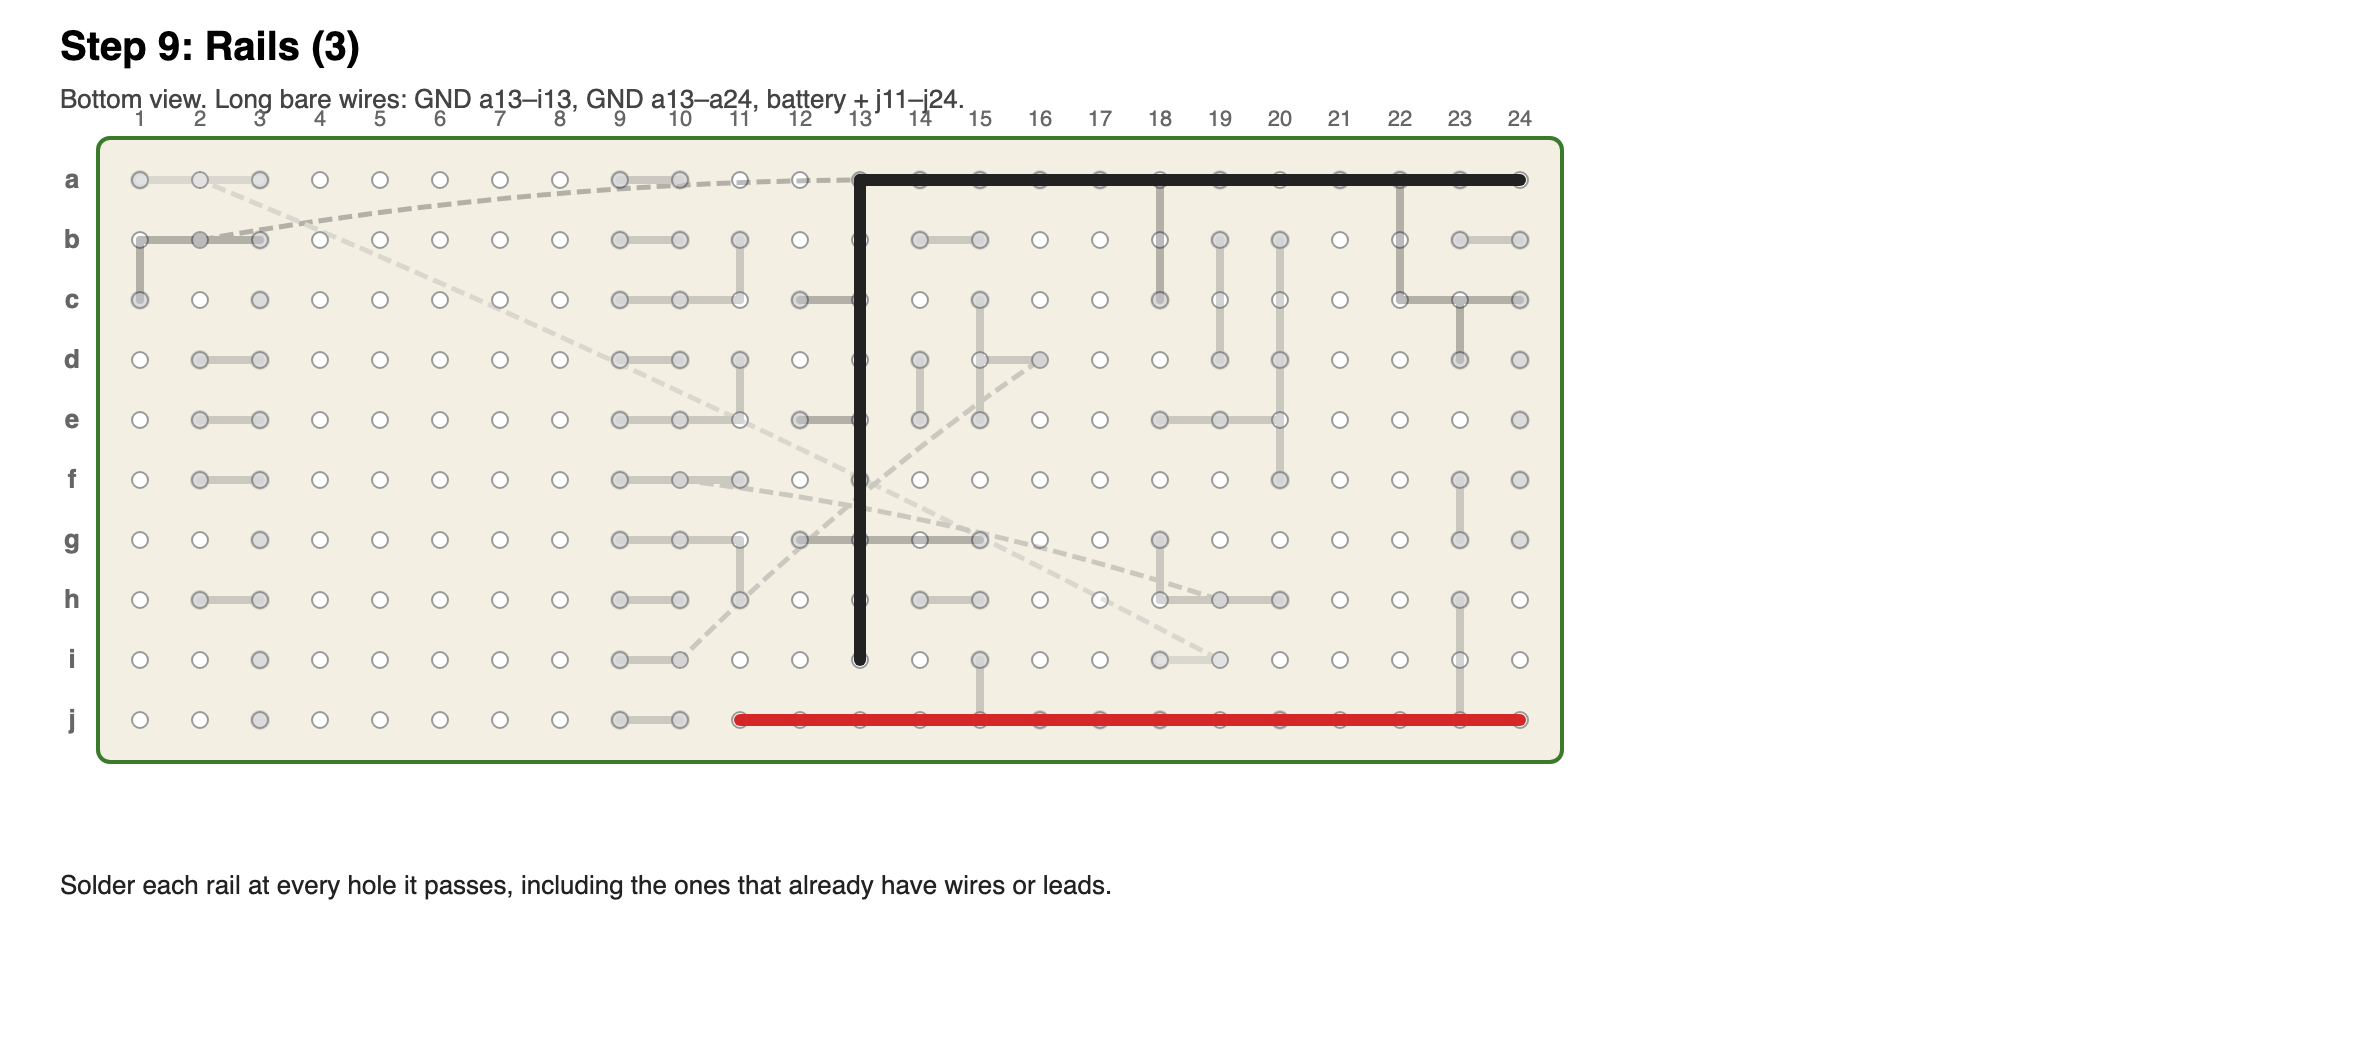
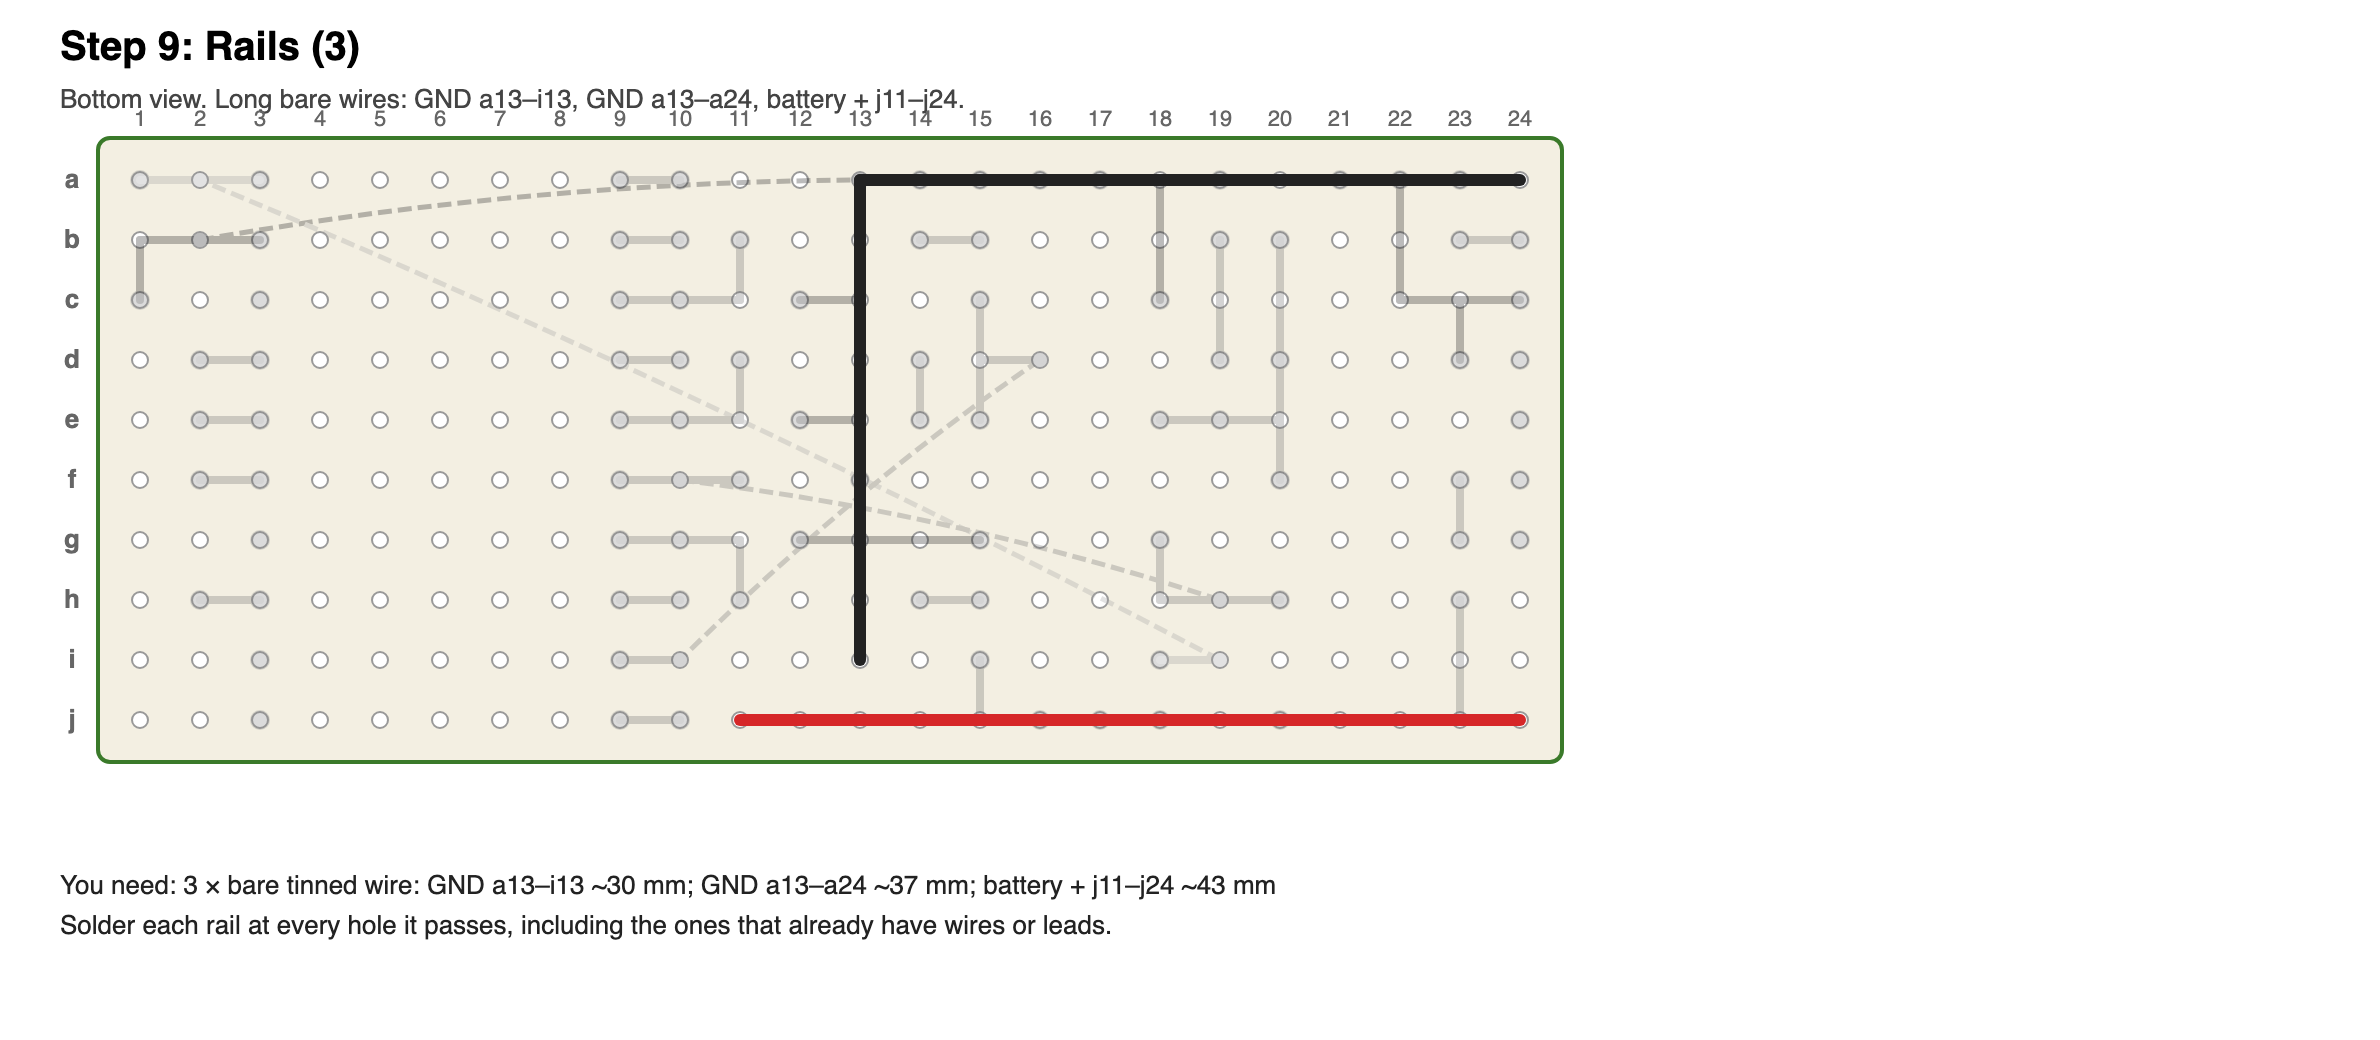
Dev board guide: per-step parts counts, orientation on step 1
Every step lists what it needs with counts (in the text and on its picture). Step 1's
picture marks which end is row 1 / row 24 and outlines where the sockets go.

Changed region(s): [[0.0311, 0.8308, 0.5286, 0.9231]]

diff --git a/tools/devboard_guide.py b/tools/devboard_guide.py
@@ -514,6 +514,38 @@ meet at a corner, solder them together there. Then do the checks in step 10.""" 
      what(wires_of('rail')))
 
 
+def need():
+    """What each step uses, with counts (drawn from the layout)."""
+    cnt = lambda pairs: {v: sum(1 for _, x in pairs if x == v) for _, v in pairs}
+    r, c = cnt(RES), cnt(CAPS)
+    rail_mm = []
+    for f, t, k in RAILS:
+        (i0, m0), (i1, m1) = H(f), H(t)
+        rail_mm.append('%s %s–%s ~%d mm' % ('GND' if 'GND' in k else 'battery +', f, t, (abs(i0 - i1) + abs(m0 - m1)) * 2.54 + 10))
+    socks = socket_rows()
+    n_esp = sum(1 for n, _ in socks if n == 'ESP32-C6')
+    usb_pins = [len(hs) for n, hs in socks if n == 'USB-C breakout']
+    out = {
+        'res': ['%s × %s resistor' % (n, v.replace('1k', '1 kΩ').replace('1M', '1 MΩ')) for v, n in r.items()],
+        'diodes': ['3 × 1N5819 diode', '1 × 6.2 V zener'],
+        'caps': ['%d × %s ceramic capacitor' % (n, {'100n': '100 nF (104)', '10µ': '10 µF (106)'}[v]) for v, n in c.items()],
+        'sockets': ['%d × 10-way female header socket (pin stand)' % n_esp] +
+                   ['1 × %d-way female header socket (cut from a strip)' % u for u in usb_pins] +
+                   ['%d × male header pins (battery)' % len(PARTS['Battery pins'].pins)],
+        'charger': ['1 × MCP73871 charger board (+ its bulk capacitor)', '1 × 10 kΩ NTC thermistor',
+                    '3 × pairs of white 22 AWG two-conductor wire, 6–8 cm each'],
+        'leads': ['3 × RJ12 breakout board (6 leads each)'] + (['1 × solar lead (2 wires)'] if 'Solar leads' in PARTS else []),
+        'wires': ['%d × 30 AWG insulated wire (cut to length)' % len(wires_of('wire'))],
+        'bridges': ['%d × short bare wire: the ~%d leg offcuts saved from steps 1-3, the rest cut from bare tinned wire' % (
+            len(wires_of('bridge')), 2 * (len(RES) + len(DIODES) + len(CAPS)))],
+        'rails': ['%d × bare tinned wire: %s' % (len(RAILS), '; '.join(rail_mm))],
+    }
+    return out
+
+
+NEED = need()
+
+
 def render_step(k):
     st = STEPS[k]
     bottom = st['view'] == 'bottom'
@@ -528,6 +560,17 @@ def render_step(k):
         for s2 in STEPS[:k]:
             for f in s2['draw']:
                 f(prev)
+    if k == 0 and not bottom:                          # first picture: where things will go, and which end is which
+        for name, hs in socket_rows():
+            (x0, y0), (x1, y1) = pos(hs[0]), pos(hs[-1])
+            prev.append('<rect x="%.0f" y="%.0f" width="%.0f" height="%.0f" rx="3" fill="none" stroke="#555" stroke-dasharray="5,4"/>' % (
+                min(x0, x1) - 12, min(y0, y1) - 12, abs(x1 - x0) + 24, abs(y1 - y0) + 24))
+        o.append('<text x="%d" y="%.0f" font-size="13" fill="#c00" font-weight="bold">&#8592; row 1: toward the phone jacks</text>' % (
+            MX - 40, MY + S * (M.NM - 1) + S * 1.5))
+        o.append('<text x="%.0f" y="%.0f" font-size="13" fill="#c00" font-weight="bold" text-anchor="end">row 24: toward the USB-C end &#8594;</text>' % (
+            MX + S * (M.NI - 1), MY + S * (M.NM - 1) + S * 1.5))
+        o.append('<text x="%.0f" y="%.0f" font-size="11" fill="#555">dashed = where the sockets go later (step 4)</text>' % (
+            MX + S * 7, MY + S * (M.NM - 1) + S * 1.5))
     muted(o, prev)
     if bottom:
         draw_under(o, st['draw'][1])
@@ -535,7 +578,7 @@ def render_step(k):
         for f in st['draw']:
             f(o)
     name = '%sstep-%02d.svg' % (PRE, k + 1)
-    finish(o, name, st['notes'])
+    finish(o, name, ['You need: ' + ', '.join(NEED.get(st['key'], []))] + list(st['notes']))
     return name
 
 
@@ -712,7 +755,8 @@ def write_md():
            'caps': ('Capacitor', 'Holes', 'Note'), 'batt': ('Part', 'Holes', 'Note'), 'charger': ('Charger pad', 'Board hole', 'Net'),
            'wires': ('From', 'To', 'What'), 'bridges': ('From', 'To', 'What'), 'rails': ('From', 'To', 'What')}
     for k, st in enumerate(STEPS):
-        o += ['## Step %d: %s' % (k + 1, st['title']), '', '![step %d](renders/build-step-%02d.png)' % (k + 1, k + 1), '', st['body'], '']
+        o += ['## Step %d: %s' % (k + 1, st['title']), '', '**You need:** ' + ', '.join(NEED.get(st['key'], [])) + '.', '',
+              '![step %d](renders/build-step-%02d.png)' % (k + 1, k + 1), '', st['body'], '']
         if st['key'] == 'leads':
             leads = {lab: HN(i, m) for i, m, lab in PARTS['Port leads'].pins}
             o += ['| RJ12 pin | Port 1 | Port 2 | Port 3 |', '|---|---|---|---|']
@@ -725,6 +769,8 @@ def write_md():
         else:
             o += ['| %s |' % ' | '.join(hdr[st['key']]), '|---|---|---|'] + ['| %s | %s | %s |' % r for r in st['table']] + ['']
     o += ['## Step %d: checks, then plug in the ESP and the USB-C board' % (len(STEPS) + 1), '',
+          '**You need:** multimeter, 1 × ESP32-C6 SuperMini (its male pins soldered on)%s, 1 × 18650 cell with JST-XH plug.' % (
+              ', 1 × USB-C breakout (its 6 male pins soldered on)' if 'USB-C breakout' in PARTS else ''), '',
           '![finished top](renders/build-done-top.png)', '', '![finished underside](renders/build-done-under.png)', '',
           'The battery + rail (%s) gets most of its connections from the top: the three port leads and the charger\'s LOAD +' % rails_text().split(', ')[-1],
           'wire (%s). The cell never connects to the rail directly: battery + (%s) goes to the charger\'s BATT + pad and the' % (CH['LOAD + (output)'], LEAD['B+']),

diff --git a/docs/dev-board-build.md b/docs/dev-board-build.md
@@ -62,6 +62,8 @@ A reversed diode just won't conduct; a reversed electrolytic or battery can dama
 
 ## Step 1: Resistors (7)
 
+**You need:** 4 × 1 MΩ resistor, 3 × 1 kΩ resistor.
+
 ![step 1](renders/build-step-01.png)
 
 First mark the board: **row 1 = the end toward the phone jacks**, **column a = the edge with the row numbers printed on
@@ -83,6 +85,8 @@ the trimmed legs: they make good bridges later. The holes under each body stay e
 
 ## Step 2: Diodes (3 × 1N5819, 1 × 6.2 V zener)
 
+**You need:** 3 × 1N5819 diode, 1 × 6.2 V zener.
+
 ![step 2](renders/build-step-02.png)
 
 These **only work one way round**; the band end is the cathode (K). Bend the legs like the resistors (4 holes)
@@ -97,6 +101,8 @@ and lay each one flat with its **band at the K hole** in the table and the pictu
 
 ## Step 3: Ceramic capacitors (4 × 100 nF, 1 × 10 µF)
 
+**You need:** 1 × 10 µF (106) ceramic capacitor, 4 × 100 nF (104) ceramic capacitor.
+
 ![step 3](renders/build-step-03.png)
 
 No direction. Push them straight down so the body sits low; don't bend the legs at the body.
@@ -110,6 +116,8 @@ No direction. Push them straight down so the body sits low; don't bend the legs 
 | C ADC3 100n | g10, g12 | middle hole g11 stays empty |
 
 ## Step 4: Sockets and pins: ESP (2 × 10), USB-C (1 × 6), battery (2)
+
+**You need:** 2 × 10-way female header socket (pin stand), 1 × 6-way female header socket (cut from a strip), 2 × male header pins (battery).
 
 ![step 4](renders/build-step-04.png)
 
@@ -130,6 +138,8 @@ All the header parts at once:
 | Battery pins | a19 (−), b19 (+) | red wire of the plug on b19 |
 
 ## Step 5: Charger: prepare it, wire it in from off the board (3 wire pairs)
+
+**You need:** 1 × MCP73871 charger board (+ its bulk capacitor), 1 × 10 kΩ NTC thermistor, 3 × pairs of white 22 AWG two-conductor wire, 6–8 cm each.
 
 ![step 5](renders/build-step-05.png)
 
@@ -164,6 +174,8 @@ so it sits **off the board**, beside the row-24 end, on wires about 6–8 cm lon
 
 ## Step 6: Leads from the RJ12 boards and the solar lead (20)
 
+**You need:** 3 × RJ12 breakout board (6 leads each), 1 × solar lead (2 wires).
+
 ![step 6](renders/build-step-06.png)
 
 Solder the 18 leads from the three RJ12 boards (pin 1 = square pad), then the solar lead's + → g23 and − → a17.
@@ -185,6 +197,8 @@ Trim underneath to ~1 mm.
 
 ## Step 7: Insulated wires underneath (4)
 
+**You need:** 4 × 30 AWG insulated wire (cut to length).
+
 ![step 7](renders/build-step-07.png)
 
 Wires go in **before** the bridges and rails, while their holes are still open. For each wire: cut it a little long,
@@ -199,6 +213,8 @@ meter as you go.
 | d16 | i10 | input-power sense -> GPIO6 |
 
 ## Step 8: Bare bridges underneath (61)
+
+**You need:** 61 × short bare wire: the ~32 leg offcuts saved from steps 1-3, the rest cut from bare tinned wire.
 
 ![step 8](renders/build-step-08.png)
 
@@ -272,6 +288,8 @@ and neither beeps to the pad next to it.
 
 ## Step 9: Rails (3)
 
+**You need:** 3 × bare tinned wire: GND a13–i13 ~30 mm; GND a13–a24 ~37 mm; battery + j11–j24 ~43 mm.
+
 ![step 9](renders/build-step-09.png)
 
 Last: lay straight bare tinned wire for each rail (GND a13–i13, GND a13–a24, battery + j11–j24), soldering it at every hole it passes. Where two GND rails
@@ -284,6 +302,8 @@ meet at a corner, solder them together there. Then do the checks in step 10.
 | j11 | j24 | bare wire down column j, rows 11-24 |
 
 ## Step 10: checks, then plug in the ESP and the USB-C board
+
+**You need:** multimeter, 1 × ESP32-C6 SuperMini (its male pins soldered on), 1 × USB-C breakout (its 6 male pins soldered on), 1 × 18650 cell with JST-XH plug.
 
 ![finished top](renders/build-done-top.png)
 
